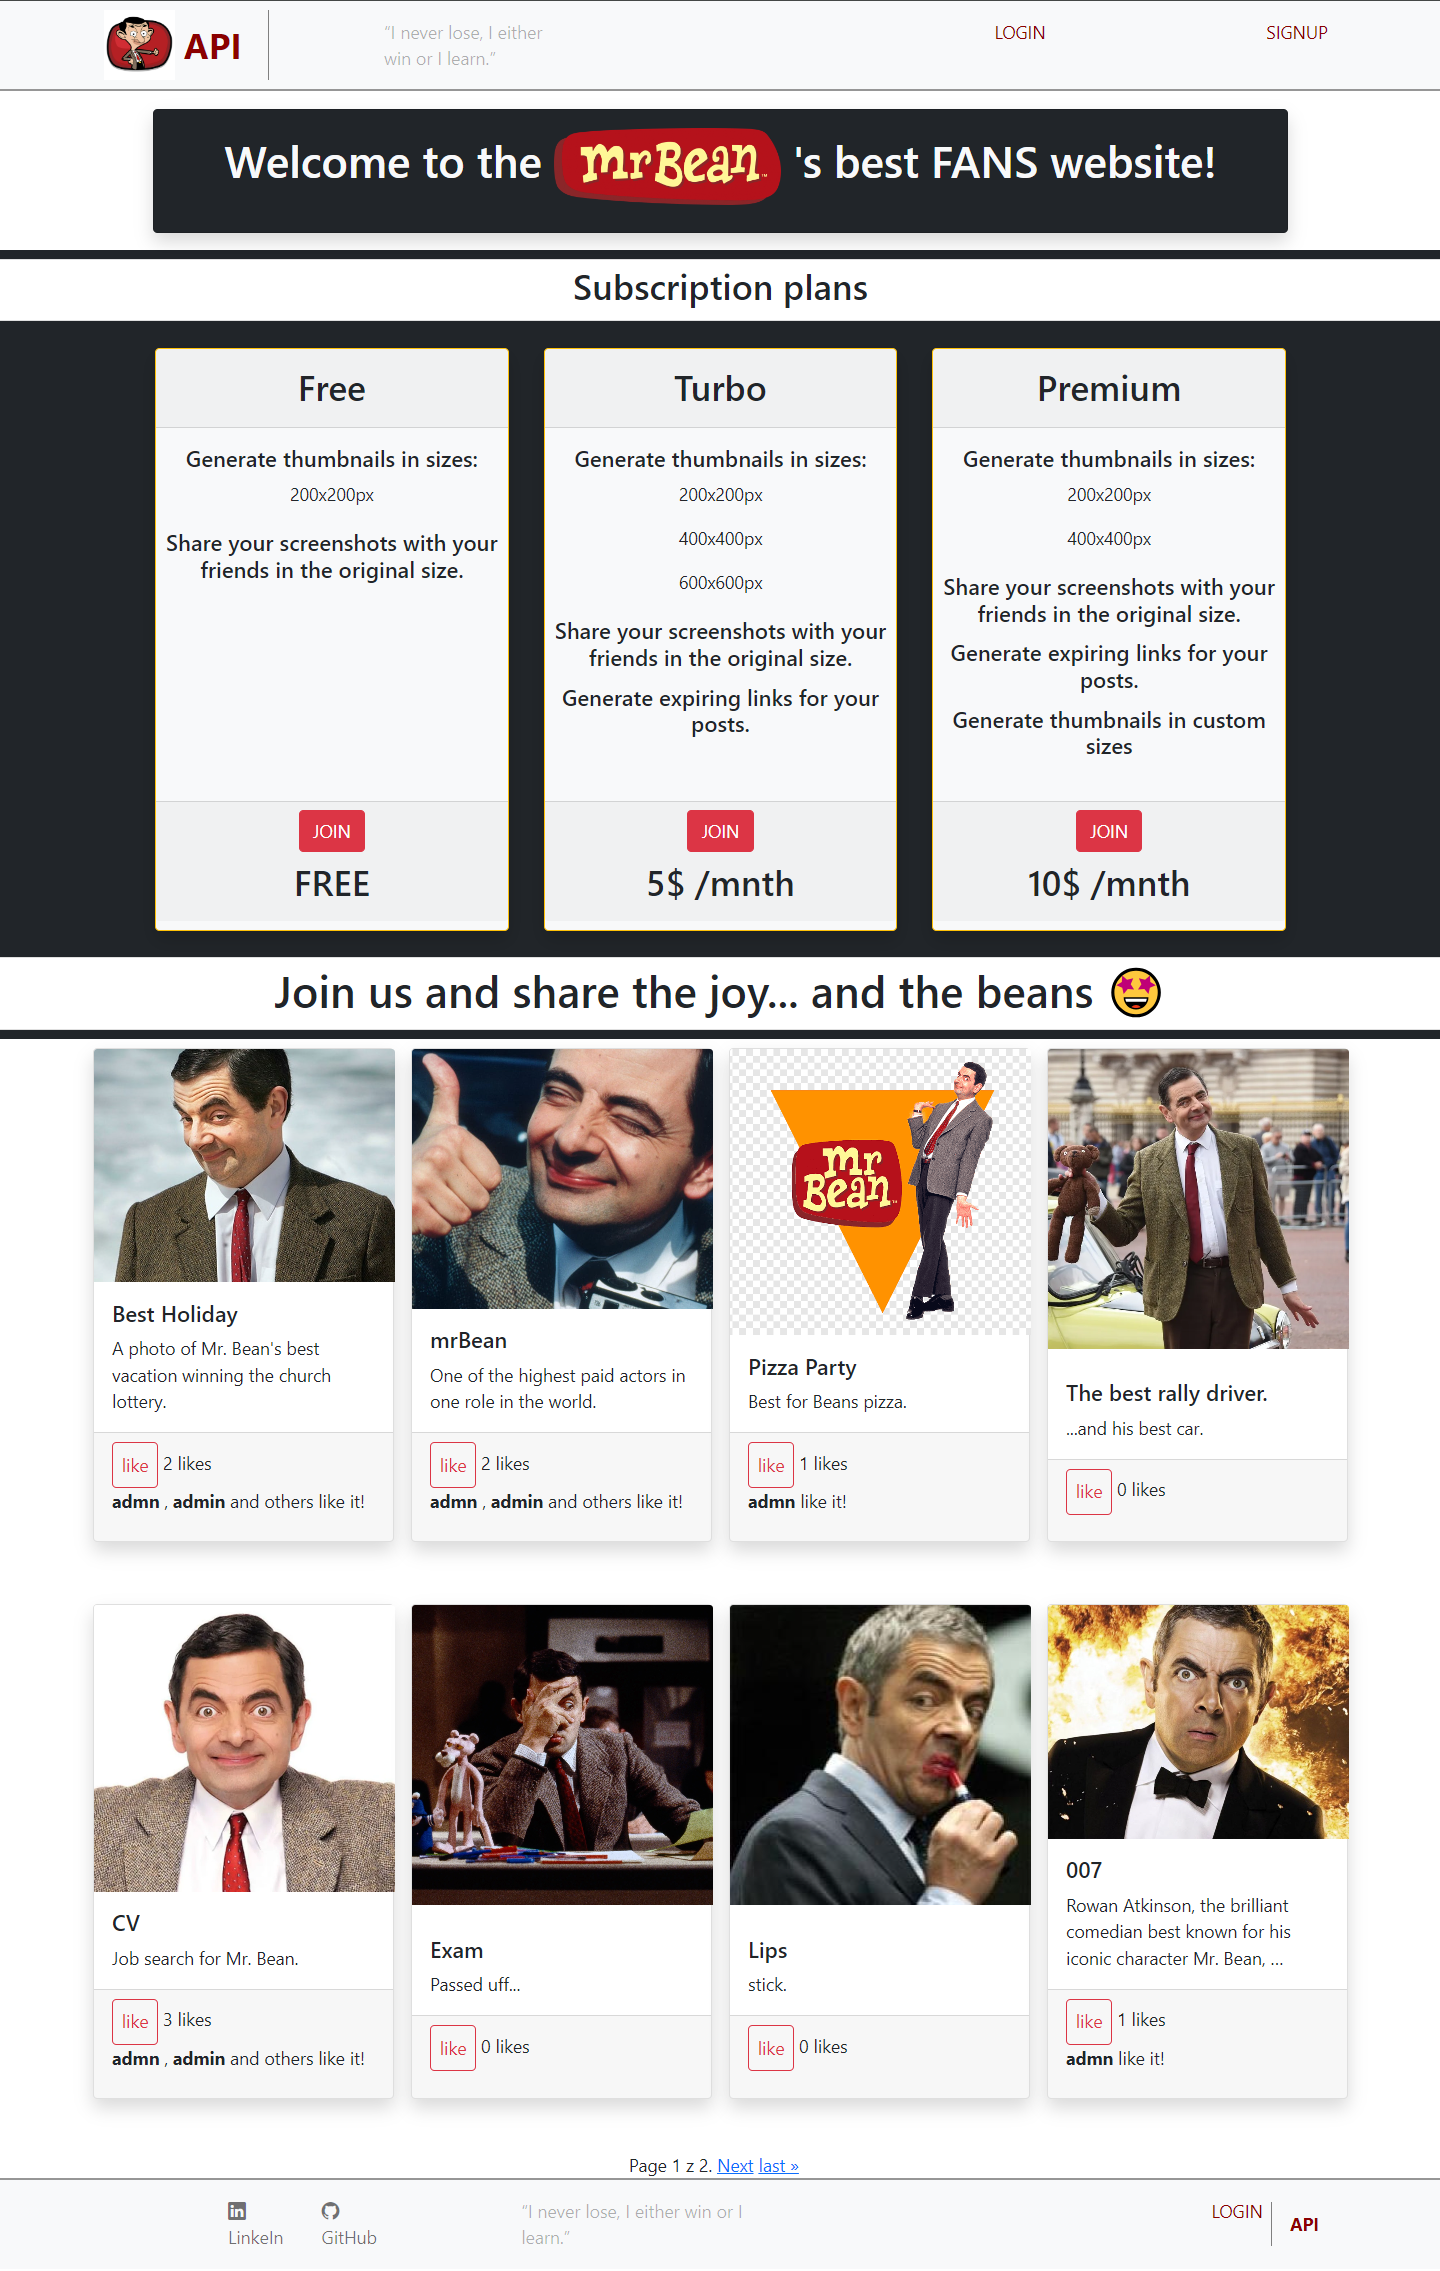
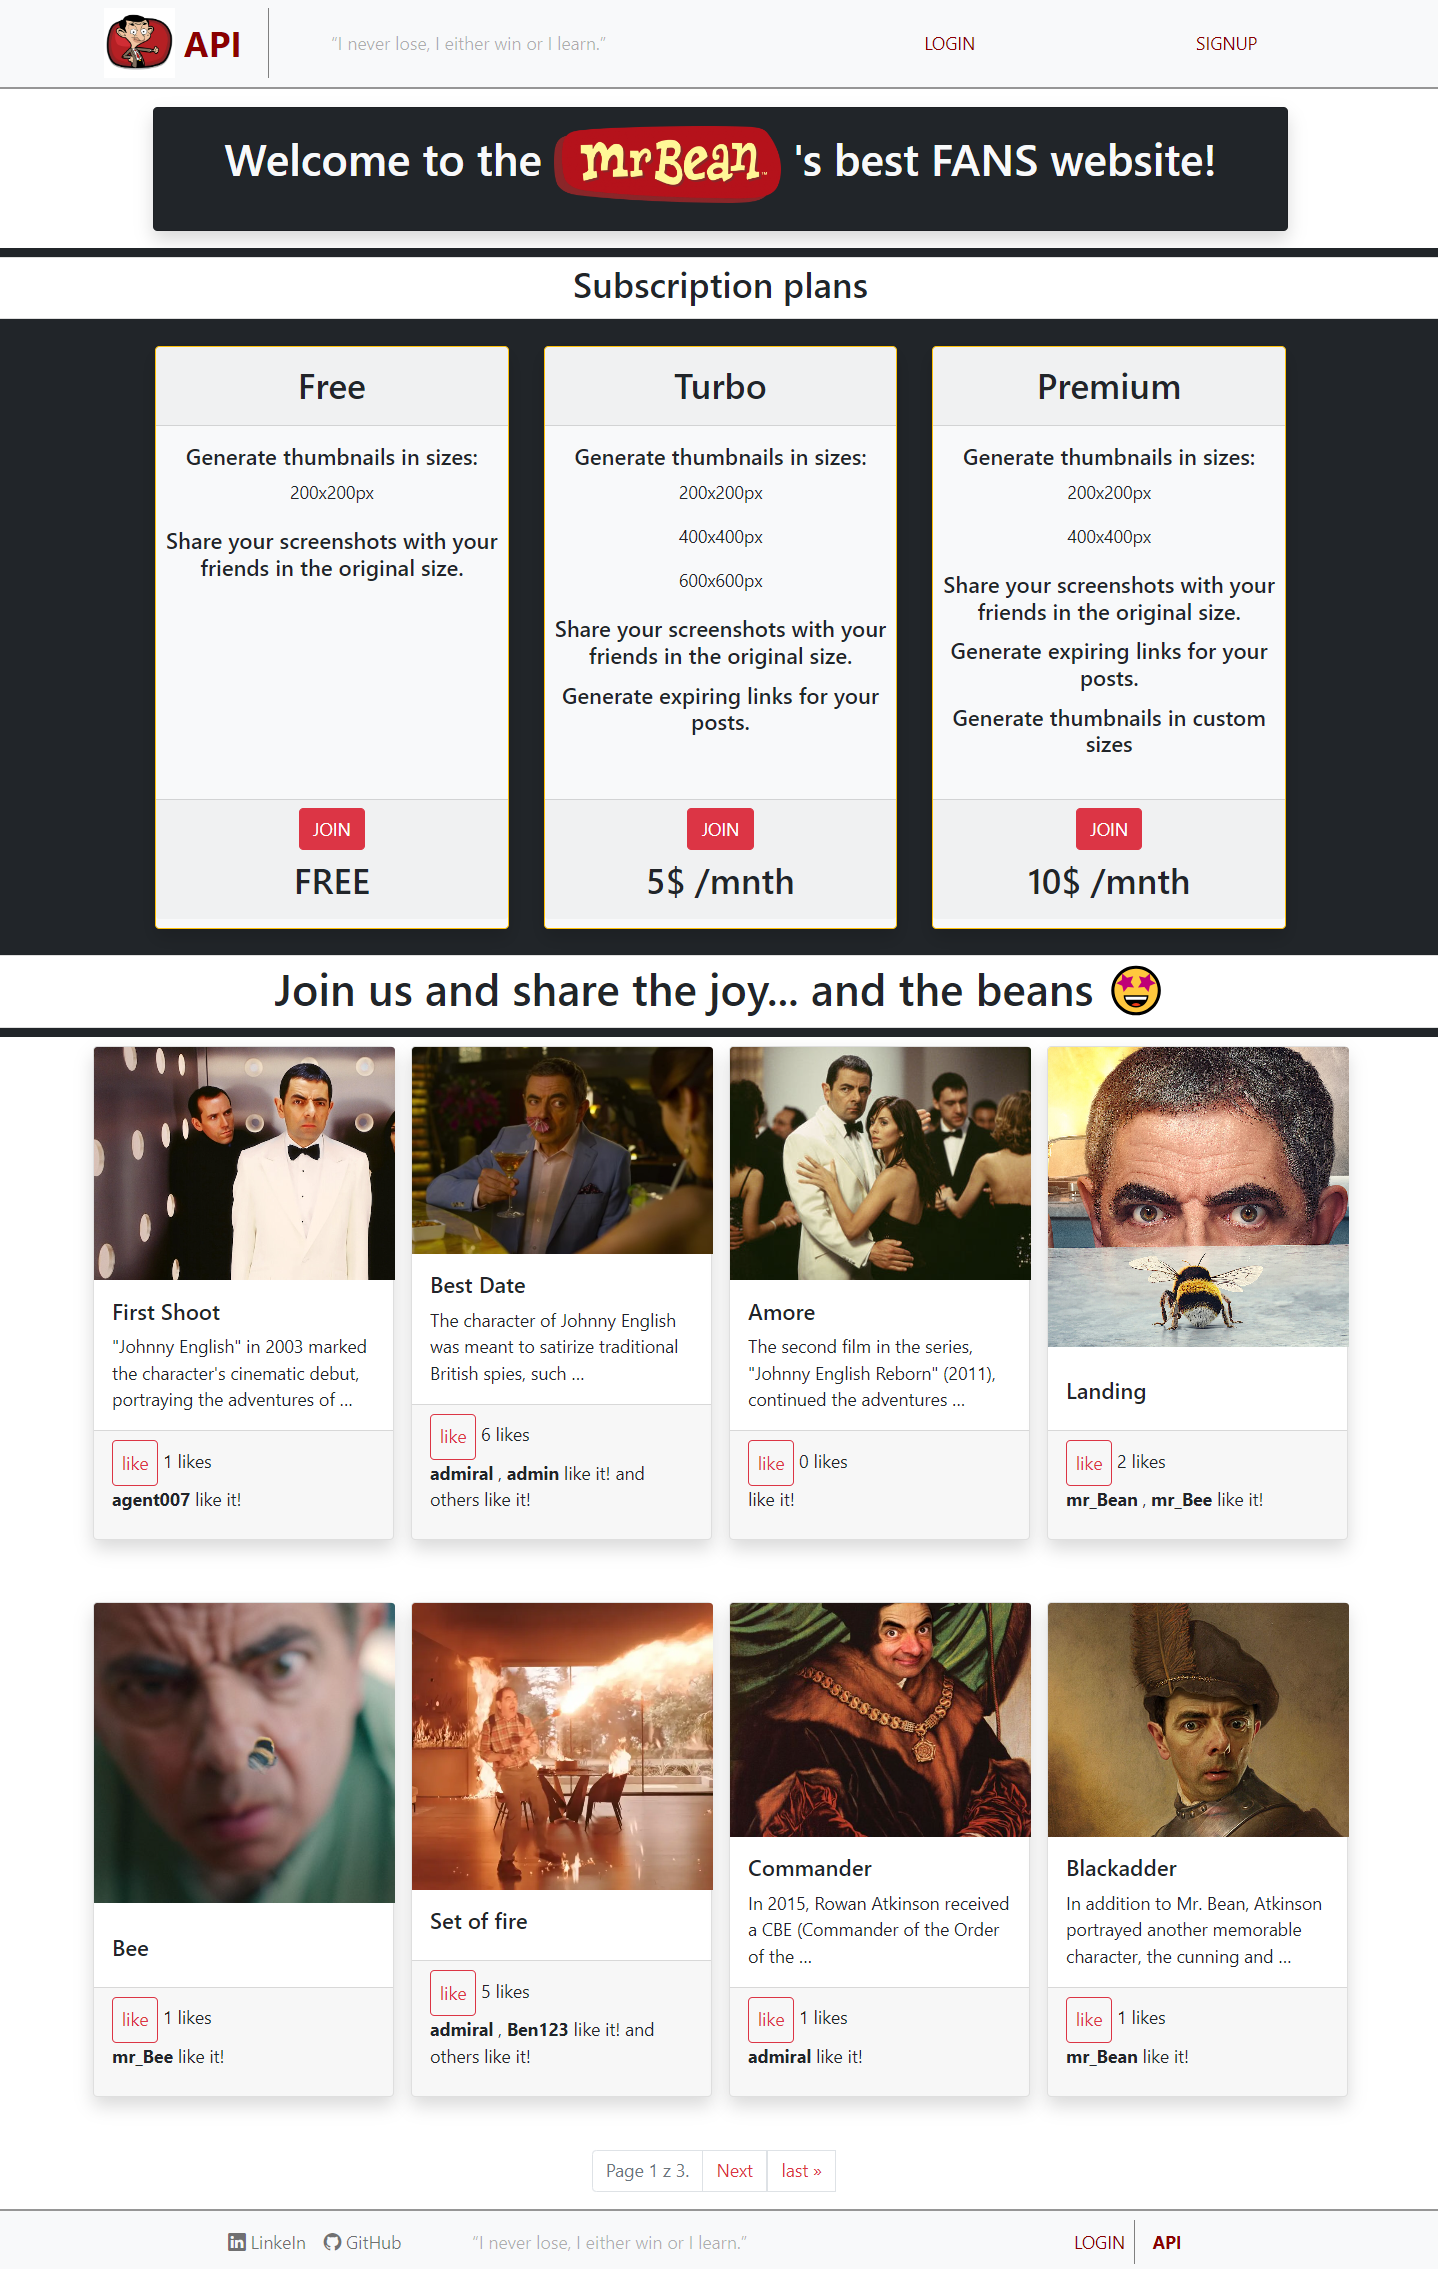
fix

diff --git a/image_app/templates/image_app/index.html b/image_app/templates/image_app/index.html
@@ -146,14 +146,14 @@
                   {% with one=img.users_likes.all|slice:":2" %}
                     {% for o in one %}
                       <b>{{ o }}</b>
-                      {% if not forloop.last %},{% endif %}    
+                      {% if not forloop.last %},{% endif %}                    
                     {% endfor %}
 
-                    {% if img.users_likes.count == 1 %}
+                    {% if img.users_likes.count in 1 or 2 %}
                     like it!
                     {% endif %}
 
-                    {% if img.users_likes.count > 1 %}
+                    {% if img.users_likes.count > 2 %}
                     and others like it!
                     {% endif %}
                    
@@ -175,25 +175,37 @@
   </div>
 
 {% comment %} Pginator {% endcomment %}
-    <div class="pagination container d-flex justify-content-center">
+    <nav 
+    aria-label="Page navigation example"
+    class="pagination container d-flex justify-content-center">
 
-      <span class="step-links">
+      <ul class="pagination">
 
         {% if page_obj.has_previous %}
-          <a href="?page=1">&laquo; first</a>
-          <a href="?page={{ page_obj.previous_page_number }}">Previous</a>
+          <li class="page-item">
+            <a class="page-link link-danger link-underline-light" href="?page=1">&laquo; first</a>
+          </li>
+          <li class="page-item">
+            <a class="page-link link-danger link-underline-light" href="?page={{ page_obj.previous_page_number }}">Previous</a>
+          </li>
         {% endif %}
 
-        <span class="current"> Page {{ page_obj.number }} z {{ page_obj.paginator.num_pages }}.</span>
+        <li class="page-item disabled ">
+          <span class="current page-link"> Page {{ page_obj.number }} z {{ page_obj.paginator.num_pages }}.</span>
+        </li>        
 
         {% if page_obj.has_next %}
-          <a href="?page={{ page_obj.next_page_number }}">Next</a>
-          <a href="?page={{ page_obj.paginator.num_pages }}">last &raquo;</a>
+          <li class="page-item">
+            <a class="page-link link-danger link-underline-light" href="?page={{ page_obj.next_page_number }}">Next</a>
+          </li>
+          <li class=" btnpage-item">
+            <a class="page-link link-danger link-underline-light" href="?page={{ page_obj.paginator.num_pages }}">last &raquo;</a>
+          </li>
         {% endif %}
 
-      </span>
+      </ul>
 
-    </div>   
+    </nav>   
 
 </section>
 

diff --git a/templates/registration/signup.html b/templates/registration/signup.html
@@ -11,10 +11,14 @@
   </div>
 </div>
 
-<div style="margin: auto; max-width: 44%">
-  <a href="{% url 'users_app:login' %}"
-    ><h3 style="text-align: center">Have account?</h3></a
-  >
+<div class="" style="margin: auto; max-width: 44% ">
+  <a 
+  class=" btn-outline-danger m-3 justify-content-center"
+  href="{% url 'users_app:login' %}">
+    <h3 class="btn-outline-danger rounded p-3" style="text-align: center">Have account?</h3>
+  </a>
 </div>
 
 {% endblock %}
+
+

diff --git a/users_app/templates/users_app/user_profile_form.html b/users_app/templates/users_app/user_profile_form.html
@@ -8,7 +8,6 @@
 
   <div class="d-flex m-1 justify-content-center">
     <div class="card m-1 shadow">
-      <h1 class="card-title"></h1>
       <img
         style="max-height: 22rem; max-width: 33rem;"
         class="card-img"
